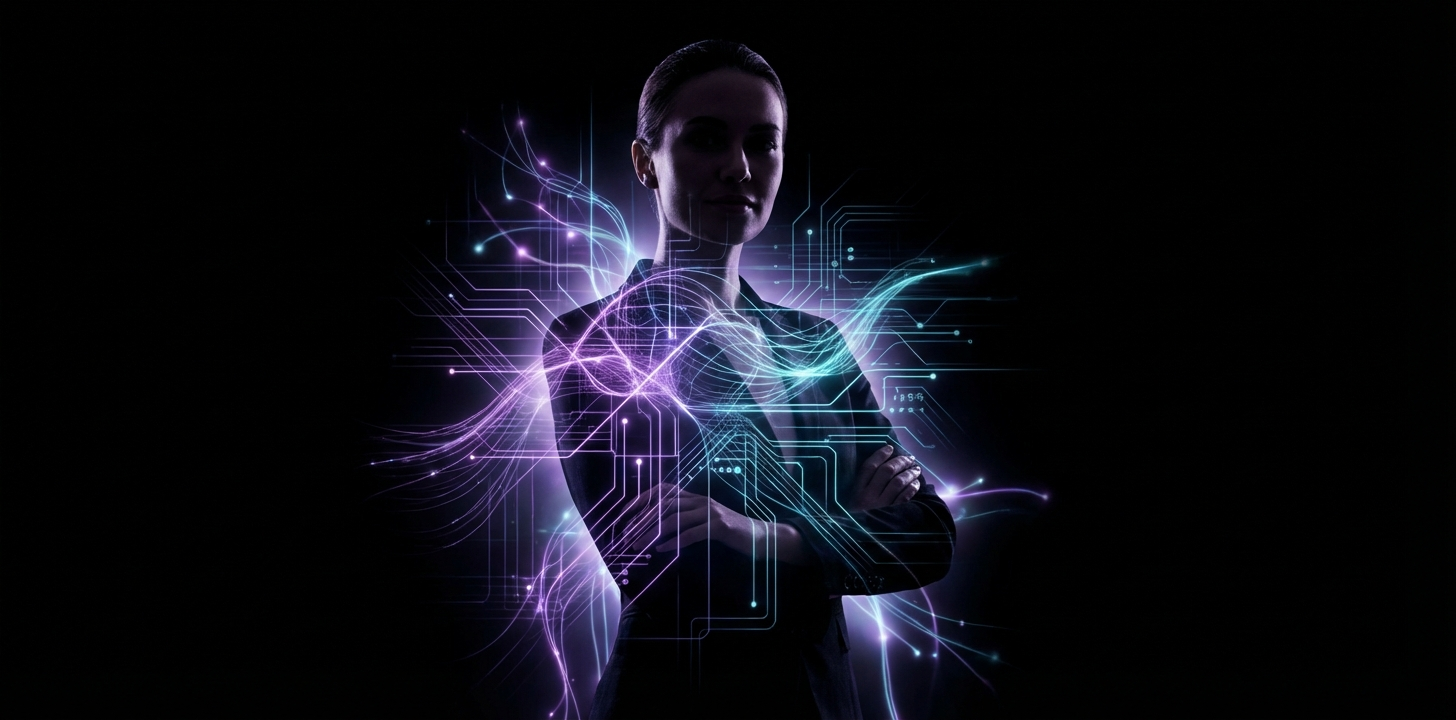
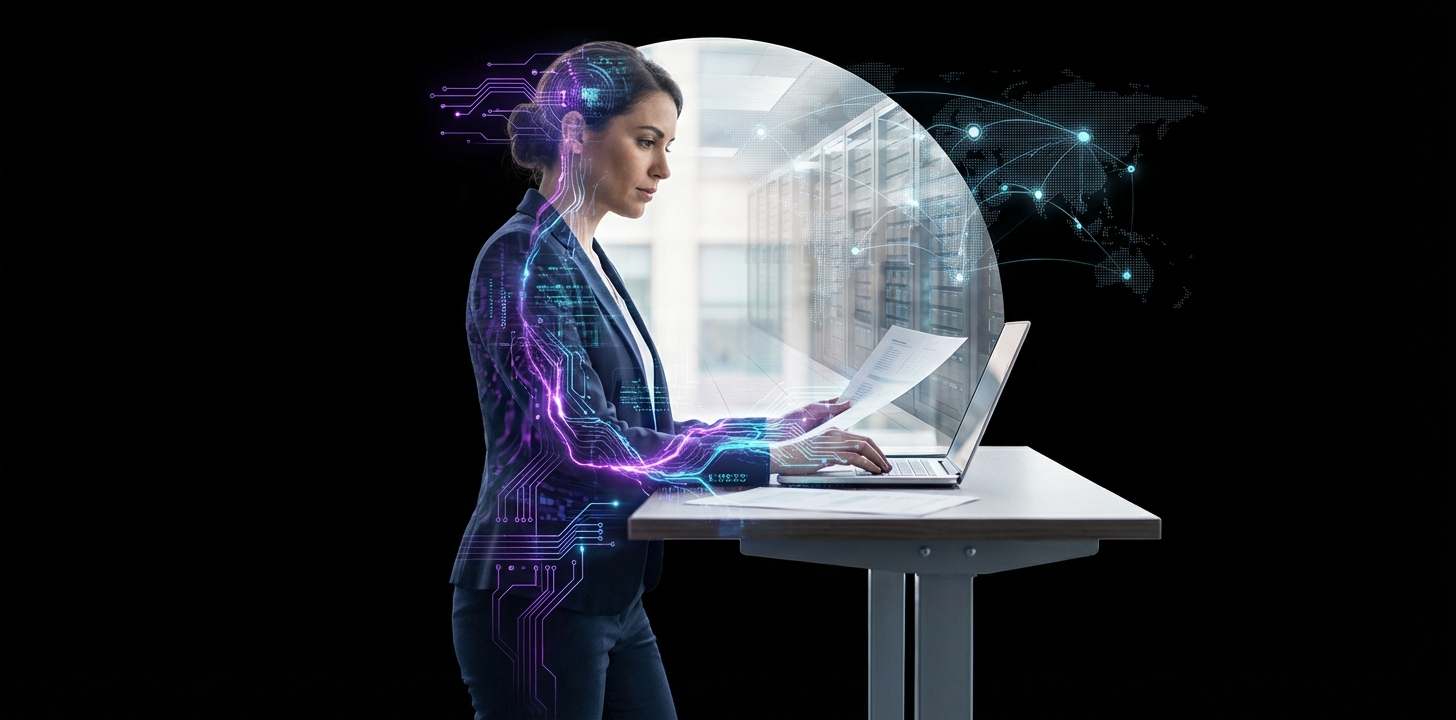
fix: regenerate Donna images — working professional, not posing
- Hero: woman focused on laptop at desk, coffee + desk lamp, late night
- Philosophy: standing desk with laptop, digital overlay while working
- Bump hero image opacity from 0.2 → 0.4 and size up for visibility

diff --git a/sodonna_webapp/src/components/Hero.tsx b/sodonna_webapp/src/components/Hero.tsx
@@ -8,7 +8,7 @@ export function Hero() {
         src="/images/hero_donna.png"
         alt=""
         aria-hidden="true"
-        className="absolute top-1/2 left-1/2 -translate-x-1/2 -translate-y-1/2 w-[600px] md:w-[800px] opacity-20 pointer-events-none select-none"
+        className="absolute top-1/2 left-1/2 -translate-x-1/2 -translate-y-1/2 w-[700px] md:w-[900px] opacity-40 pointer-events-none select-none"
       />
       <motion.div
         initial={{ opacity: 0, y: 20 }}
